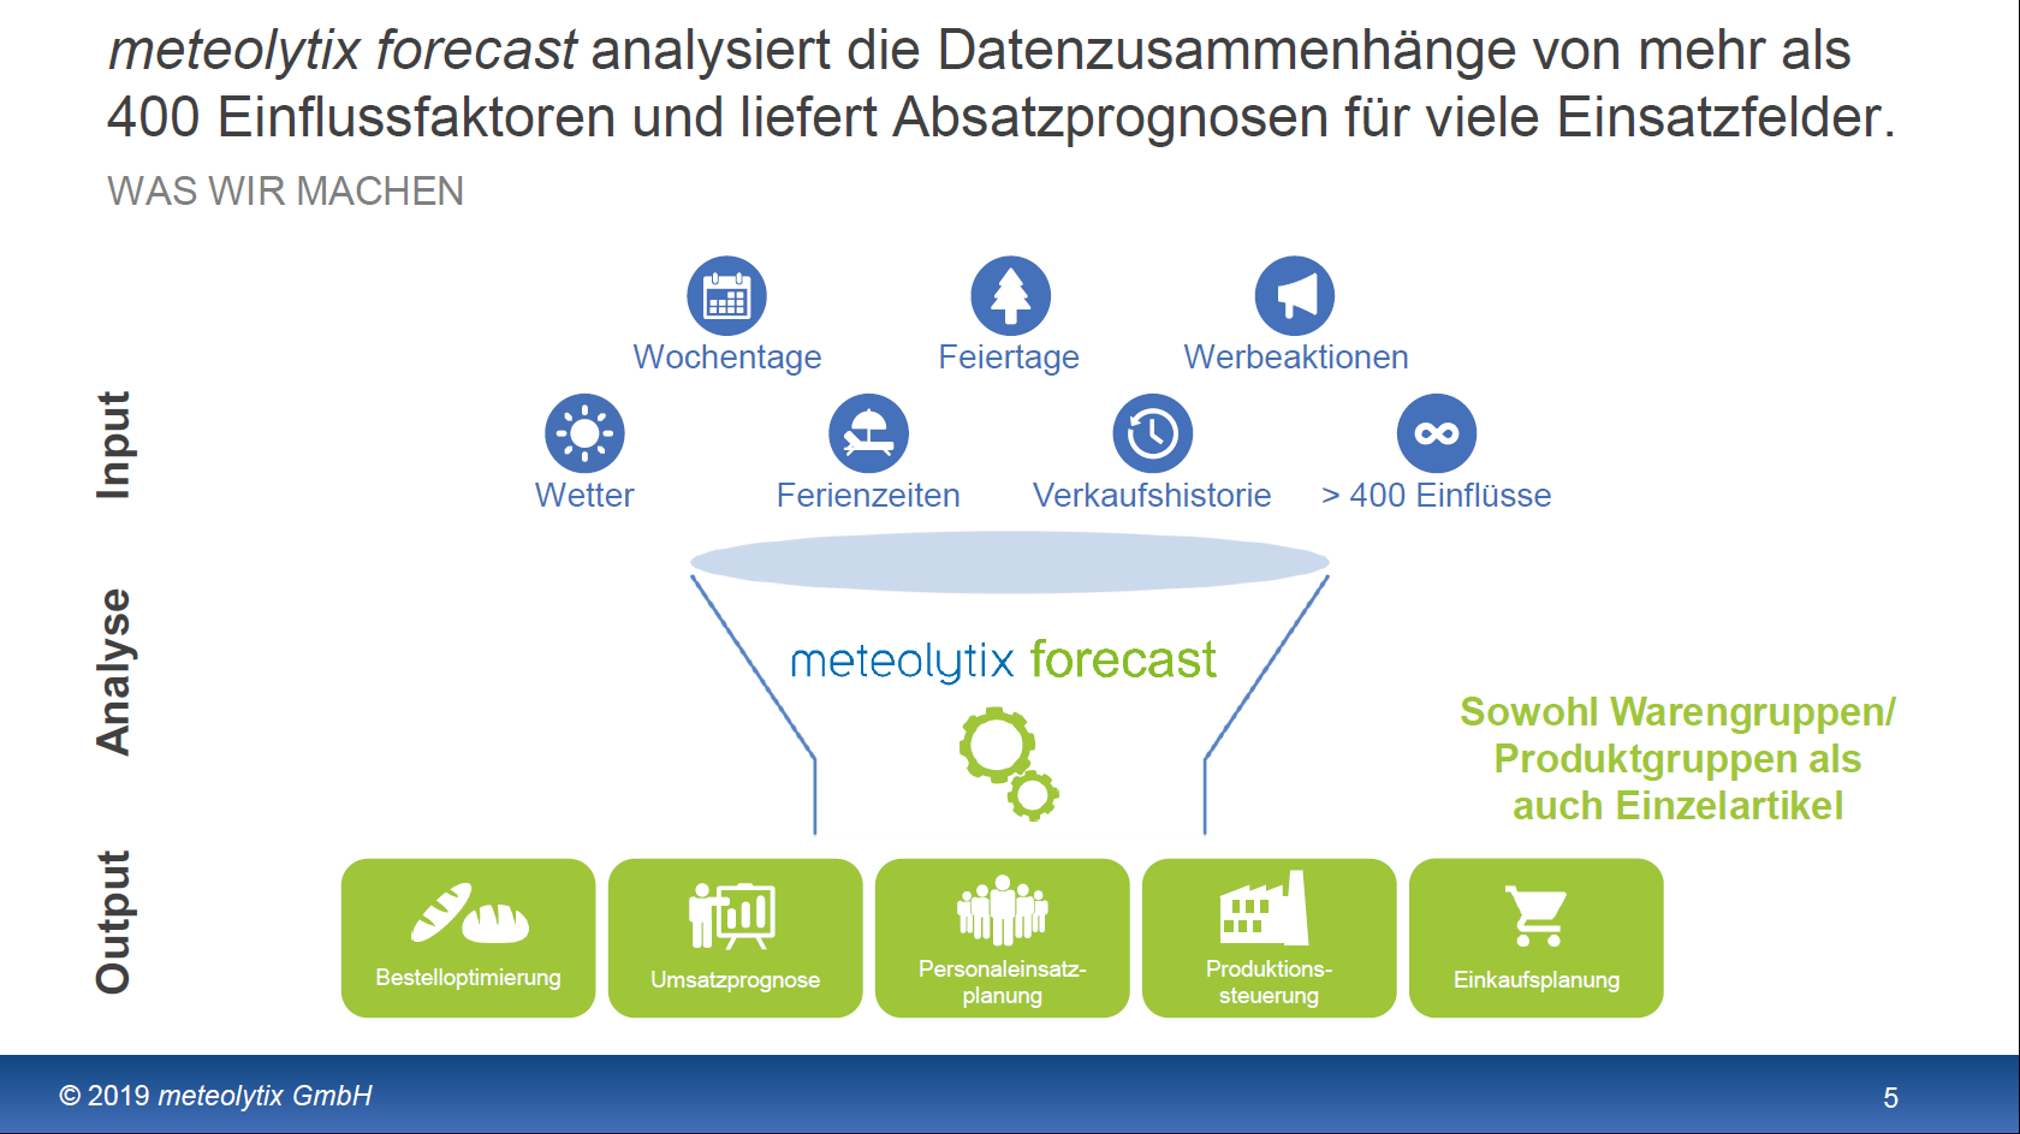
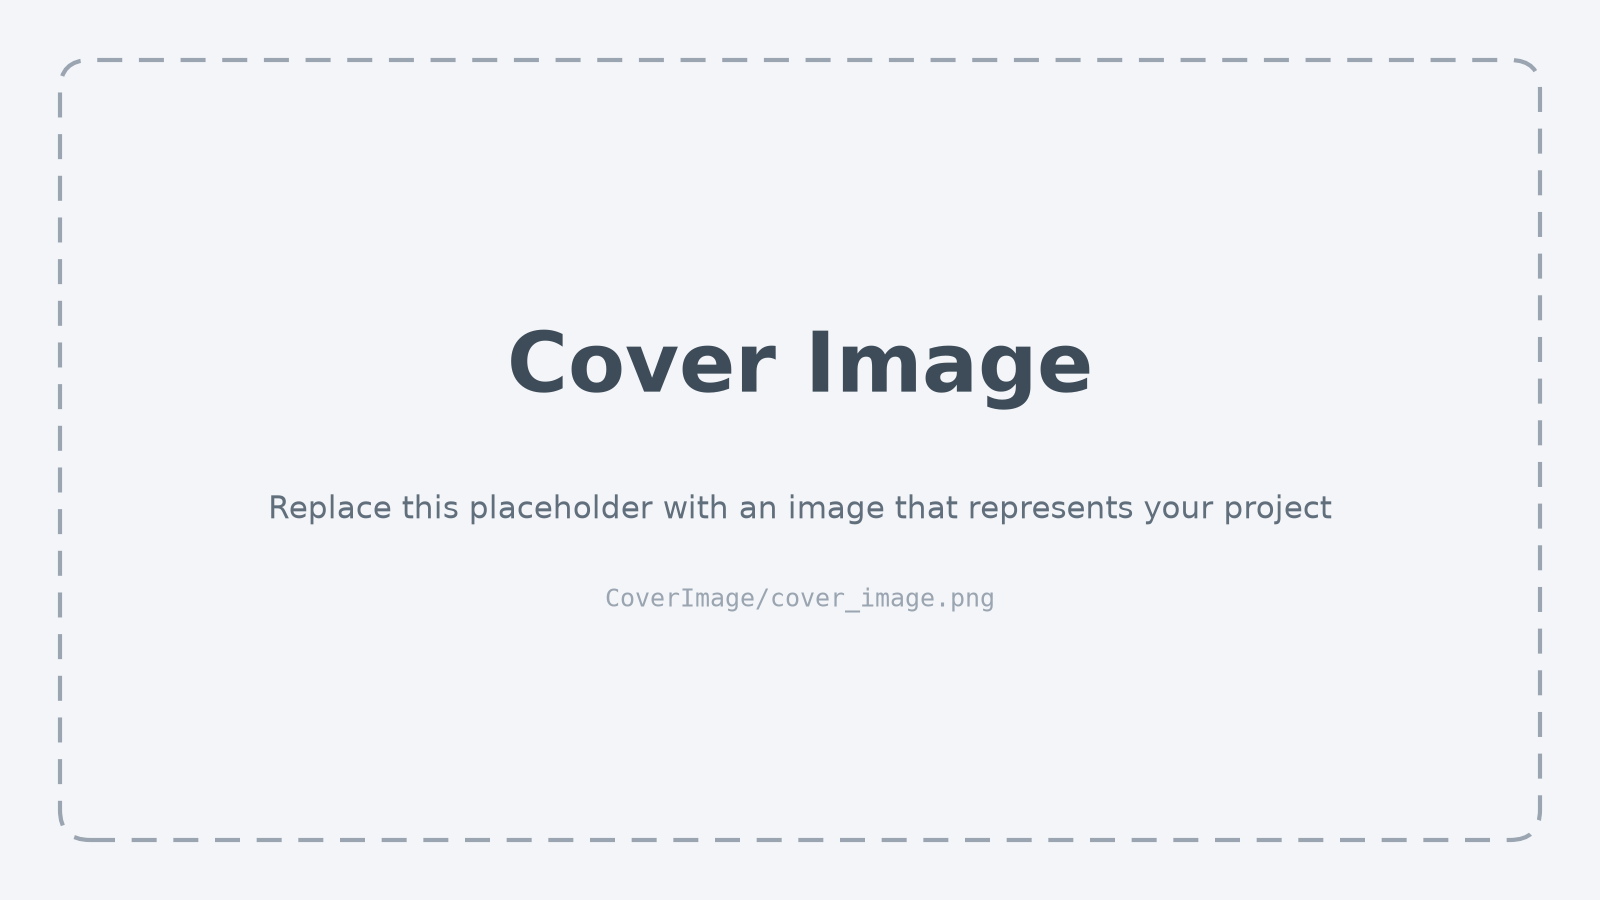
Replace meteolytix cover image with neutral placeholder
The previous cover image was a German meteolytix slide. Teams are expected
to add their own cover image, so the template now ships a placeholder and
the README asks teams to replace it.

diff --git a/README.md b/README.md
@@ -30,4 +30,6 @@ Regression
 
 ## Cover Image
 
-![](CoverImage/cover_image.png)
+[Replace `CoverImage/cover_image.png` with an image that represents your project.]
+
+![Cover image](CoverImage/cover_image.png)
